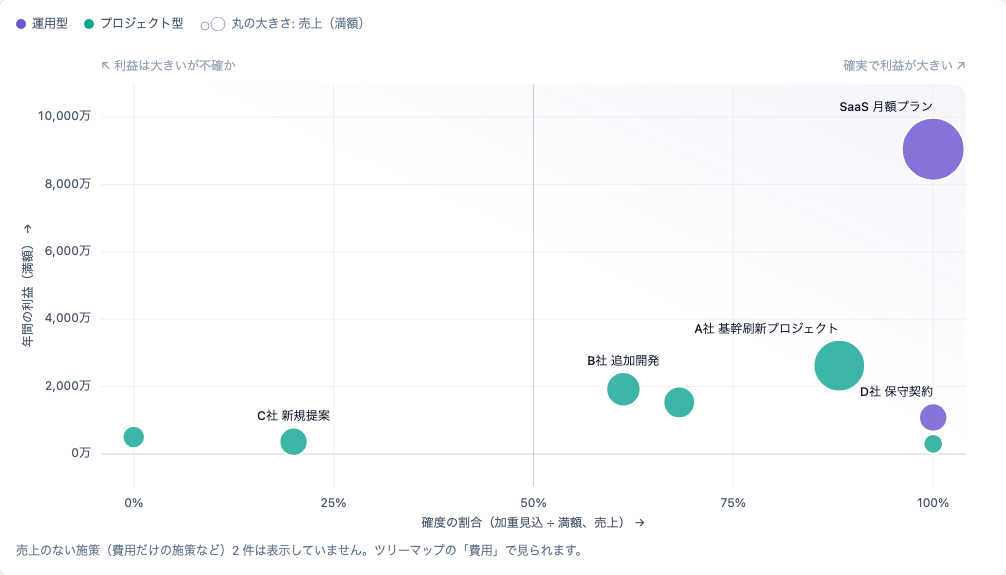
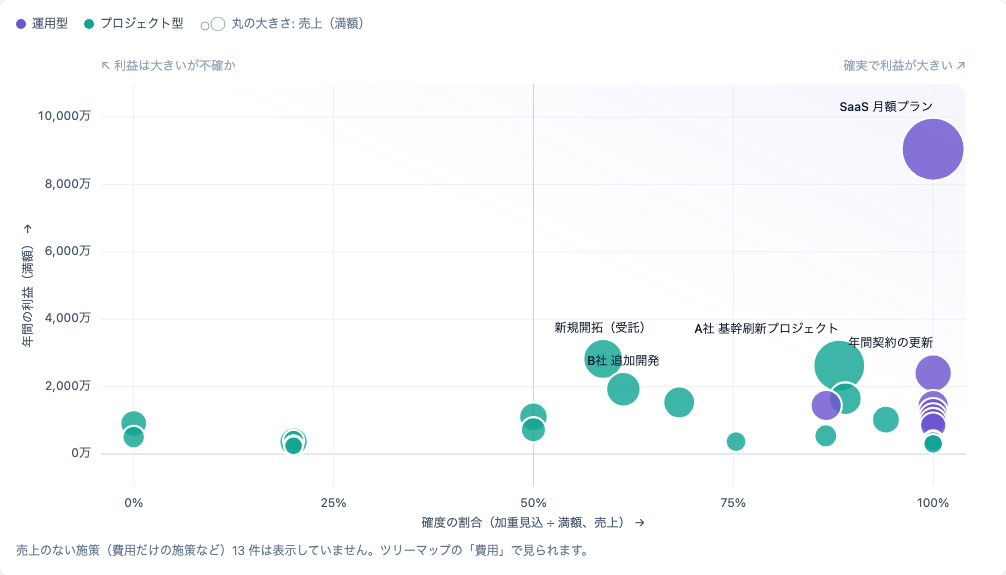
feat: デモのデータを施策 40 件にし、外部コード・割当ルール・枠の施策の例を入れる
- 4つのユニット（SaaS・受託開発・コンサルティング・管理部門）に施策 40 件
- 実績を施策コード・外部コード（案件番号）・割当ルール（会計科目 × 部門）で割り当て、未割当を 2 件残す
- 枠の施策「新規開拓（受託）」: 内訳に α社・β社・γ社・未確定分、受注した案件番号を外部コードに登録
- マネージャーの手引きに枠の施策の使い方を追加し、docs/demo.md と手引きの画像を更新する

diff --git a/web/screenshots/demo-data.ts b/web/screenshots/demo-data.ts
@@ -3,6 +3,8 @@ import { api } from '../e2e/helpers'
 
 // 研修・試用（make demo、docs/demo.md）と手引きの画像（make manual-screenshots）で使うデモのデータ。
 // 2026年度の想定で、10月見込（今回の見込）を現場が更新している途中の状態を作る。日付は固定（締切 2026-10-16）。
+// 4つのユニットに施策 40 件。実績は施策コード・外部コード（案件番号）・割当ルール（会計科目 × 部門）で割り当て、未割当も少し残す。
+// 「新規開拓（受託）」は枠の施策（docs/plan.md「2.5」）の例で、内訳に α社・β社・γ社・未確定分を持ち、受注した案件の番号を外部コードに登録している。
 // FP&A でログインした page を受け取り、API でデータを入れる。施策が1件でもある環境には入れない（本番などに誤って入れないため）。
 
 /** デモのアカウント（ローカルの研修用の値。本番では使わない） */
@@ -15,6 +17,12 @@ export const demoAccounts = [
 ] as const
 
 const months = ['2026-04', '2026-05', '2026-06', '2026-07', '2026-08', '2026-09', '2026-10', '2026-11', '2026-12', '2027-01', '2027-02', '2027-03']
+
+/** 月の末日（YYYY-MM-DD） */
+function lastDay(ym: string): string {
+  const [y, m] = ym.split('-').map(Number)
+  return `${ym}-${String(new Date(y, m, 0).getDate()).padStart(2, '0')}`
+}
 
 /** 画像の撮影で使う ID */
 export type DemoData = { activityId: number; scenarioId: number }
@@ -39,15 +47,26 @@ export async function seedDemo(page: Page): Promise<DemoData> {
   const tanaka = await post('/users', { name: '田中 一郎', email: 'tanaka@example.com', role: 'member', password: memberPassword })
   const saas = await post('/units', { name: 'SaaS ユニット', segment_id: seg.id, organization_id: org.id, owner_user_id: manager.id })
   const dev = await post('/units', { name: '受託開発ユニット', segment_id: seg2.id, organization_id: org.id, owner_user_id: manager.id })
+  const glOf = new Map<string, number>()
+  const subjectCode = new Map<number, string>()
   const subject = async (code: string, name: string, category: string) => {
     const s = await post('/subjects', { code, name, category })
-    await post('/gl-accounts', { code, name, subject_id: s.id })
+    const gl = await post('/gl-accounts', { code, name, subject_id: s.id })
+    glOf.set(code, gl.id)
+    subjectCode.set(s.id, code)
     return s.id
   }
   const subscription = await subject('4110', 'サブスクリプション売上', 'revenue')
   const contract = await subject('4120', '受託売上', 'revenue')
   const outsourcing = await subject('5110', '外注費', 'expense')
   const ads = await subject('5210', '広告宣伝費', 'expense')
+  const consulting = await subject('4130', 'コンサルティング売上', 'revenue')
+  const rent = await subject('5310', '地代家賃', 'expense')
+  const seg3 = await post('/segments', { name: 'コンサルティング事業' })
+  const seg4 = await post('/segments', { name: '全社共通' })
+  const org2 = await post('/organizations', { name: '管理本部' })
+  const consult = await post('/units', { name: 'コンサルティングユニット', segment_id: seg3.id, organization_id: org.id, owner_user_id: manager.id })
+  const corp = await post('/units', { name: '管理部門', unit_type: 'corporate', segment_id: seg4.id, organization_id: org2.id, owner_user_id: manager.id })
 
   // 施策
   const activity = (code: string, name: string, unit: number, owner: number, type: string, level: string, start = '2026-04-01', end = '2027-03-31') =>
@@ -73,6 +92,64 @@ export async function seedDemo(page: Page): Promise<DemoData> {
   const addon = await post(`/activities/${addB.id}/lines`, { subject_id: contract, name: '追加要件', outlook: 'addon', confidence_level: 'D', reason: '追加要件の見込' })
   await post(`/activities/${bigA.id}/milestones`, { name: '要件定義の完了', due_date: '2026-09-30' })
   await post(`/activities/${bigA.id}/milestones`, { name: '本番リリース', due_date: '2027-02-28' })
+
+  // 外部コード（会計・基幹システムの案件番号）。実績の明細の箱の ID がこの番号なら、その施策に割り当たる
+  const externalCode = (aid: number, code: string, note: string) => post(`/activities/${aid}/external-codes`, { code, note, reason: '案件番号の登録' })
+  await externalCode(bigA.id, 'PJ-2026-0101', 'A社 基幹刷新（受注番号）')
+  await externalCode(dMaint.id, 'PJ-2025-0077', 'D社 保守（継続契約）')
+
+  // 追加の施策（合わせて 40 件）。amount は計画値の月額、from・to は計画のある月（0 = 4月 … 11 = 3月）
+  type Extra = { code: string; name: string; unit: number; owner: number; type: string; level: string; subject: number; amount: number; from?: number; to?: number; ext?: string; status?: string }
+  const extras: Extra[] = [
+    { code: 'SAAS-005', name: 'チームプラン', unit: saas.id, owner: suzuki.id, type: 'recurring', level: 'A', subject: subscription, amount: 1_200_000 },
+    { code: 'SAAS-006', name: '年間契約の更新', unit: saas.id, owner: suzuki.id, type: 'recurring', level: 'A', subject: subscription, amount: 2_000_000 },
+    { code: 'SAAS-007', name: 'API 連携オプション', unit: saas.id, owner: tanaka.id, type: 'project', level: 'B', subject: subscription, amount: 600_000, from: 3 },
+    { code: 'SAAS-008', name: '海外展開（台湾）', unit: saas.id, owner: tanaka.id, type: 'project', level: 'D', subject: subscription, amount: 900_000, from: 6 },
+    { code: 'SAAS-009', name: 'カスタマーサクセス強化', unit: saas.id, owner: suzuki.id, type: 'project', level: 'B', subject: outsourcing, amount: 400_000 },
+    { code: 'SAAS-010', name: 'ウェビナー集客', unit: saas.id, owner: tanaka.id, type: 'project', level: 'C', subject: ads, amount: 300_000 },
+    { code: 'SAAS-011', name: 'インフラ費（クラウド）', unit: saas.id, owner: manager.id, type: 'cost_pool', level: 'A', subject: outsourcing, amount: 1_100_000 },
+    { code: 'SAAS-012', name: '解約防止キャンペーン', unit: saas.id, owner: tanaka.id, type: 'project', level: 'C', subject: ads, amount: 200_000, from: 6 },
+    { code: 'DEV-007', name: 'F社 保守契約', unit: dev.id, owner: suzuki.id, type: 'recurring', level: 'A', subject: contract, amount: 700_000, ext: 'PJ-2025-0088' },
+    { code: 'DEV-008', name: 'G社 データ移行', unit: dev.id, owner: tanaka.id, type: 'project', level: 'B', subject: contract, amount: 1_800_000, from: 2, to: 7, ext: 'PJ-2026-0112' },
+    { code: 'DEV-009', name: 'H社 アプリ開発', unit: dev.id, owner: suzuki.id, type: 'project', level: 'C', subject: contract, amount: 2_200_000, from: 7 },
+    { code: 'DEV-010', name: 'I社 運用代行', unit: dev.id, owner: tanaka.id, type: 'recurring', level: 'A', subject: contract, amount: 1_000_000, ext: 'PJ-2024-0045' },
+    { code: 'DEV-011', name: 'J社 RFP 対応', unit: dev.id, owner: tanaka.id, type: 'project', level: 'E', subject: contract, amount: 3_000_000, from: 9 },
+    { code: 'DEV-012', name: '社内ツール刷新', unit: dev.id, owner: manager.id, type: 'cost_pool', level: 'B', subject: outsourcing, amount: 350_000 },
+    { code: 'DEV-013', name: 'K社 追加改修', unit: dev.id, owner: suzuki.id, type: 'project', level: 'A', subject: contract, amount: 1_300_000, from: 3, to: 5, ext: 'PJ-2026-0120', status: 'completed' },
+    { code: 'DEV-014', name: 'L社 PoC', unit: dev.id, owner: tanaka.id, type: 'project', level: 'D', subject: contract, amount: 800_000, from: 8, to: 10 },
+    { code: 'CON-001', name: 'M社 業務改善コンサル', unit: consult.id, owner: suzuki.id, type: 'project', level: 'B', subject: consulting, amount: 1_500_000, from: 1, ext: 'PJ-2026-0201' },
+    { code: 'CON-002', name: 'N社 DX 診断', unit: consult.id, owner: tanaka.id, type: 'project', level: 'A', subject: consulting, amount: 1_200_000, from: 0, to: 2, ext: 'PJ-2026-0202', status: 'completed' },
+    { code: 'CON-003', name: '研修サービス', unit: consult.id, owner: suzuki.id, type: 'recurring', level: 'A', subject: consulting, amount: 800_000 },
+    { code: 'CON-004', name: 'O社 PMO 支援', unit: consult.id, owner: tanaka.id, type: 'recurring', level: 'B', subject: consulting, amount: 1_600_000, from: 3, ext: 'PJ-2026-0205' },
+    { code: 'CON-005', name: 'P社 新規提案', unit: consult.id, owner: suzuki.id, type: 'project', level: 'D', subject: consulting, amount: 1_000_000, from: 8 },
+    { code: 'CON-006', name: 'セミナー登壇', unit: consult.id, owner: tanaka.id, type: 'project', level: 'C', subject: consulting, amount: 300_000 },
+    { code: 'CON-007', name: 'Q社 戦略策定', unit: consult.id, owner: suzuki.id, type: 'project', level: 'C', subject: consulting, amount: 2_500_000, from: 6, to: 9 },
+    { code: 'CON-008', name: 'コンサル人材の採用', unit: consult.id, owner: manager.id, type: 'cost_pool', level: 'B', subject: ads, amount: 250_000 },
+    { code: 'CORP-001', name: '本社共通費', unit: corp.id, owner: manager.id, type: 'cost_pool', level: 'A', subject: rent, amount: 1_800_000 },
+    { code: 'CORP-002', name: '全社広報', unit: corp.id, owner: manager.id, type: 'cost_pool', level: 'B', subject: ads, amount: 400_000 },
+    { code: 'CORP-003', name: '情報システム', unit: corp.id, owner: manager.id, type: 'cost_pool', level: 'A', subject: outsourcing, amount: 600_000 },
+    { code: 'CORP-004', name: '採用活動', unit: corp.id, owner: manager.id, type: 'cost_pool', level: 'B', subject: ads, amount: 500_000 },
+    { code: 'CORP-005', name: '全社研修', unit: corp.id, owner: manager.id, type: 'cost_pool', level: 'C', subject: outsourcing, amount: 200_000, from: 6 },
+  ]
+  const extraIds = new Map<string, number>()
+  for (const x of extras) {
+    const from = x.from ?? 0
+    const to = x.to ?? 11
+    const created = await activity(x.code, x.name, x.unit, x.owner, x.type, x.level, `${months[from]}-01`, lastDay(months[to]))
+    extraIds.set(x.code, created.id)
+    if (x.ext) await externalCode(created.id, x.ext, `${x.name}（案件番号）`)
+  }
+  for (const x of extras.filter((e) => e.status)) await a.put(`/activities/${extraIds.get(x.code)}`, { code: x.code, name: x.name, unit_id: x.unit, owner_user_id: x.owner, activity_type: x.type, status: x.status, confidence_level: x.level, start_date: `${months[x.from ?? 0]}-01`, end_date: lastDay(months[x.to ?? 11]), reason: '完了' })
+
+  // 枠の施策: 新規開拓（受託）。内訳で相手先ごとに分け、確度も内訳ごとに持つ
+  const frame = await activity('DEV-006', '新規開拓（受託）', dev.id, tanaka.id, 'project', 'C')
+  const frameLine = (name: string, level: string) => post(`/activities/${frame.id}/lines`, { subject_id: contract, name, confidence_level: level, reason: '相手先ごとの内訳' })
+  const alpha = await frameLine('α社', 'B')
+  const beta = await frameLine('β社', 'C')
+  const gamma = await frameLine('γ社', 'D')
+  const unknown = await frameLine('未確定分', 'E')
+  await externalCode(frame.id, 'PJ-2026-0131', 'α社 受注（新規開拓の枠で受ける）')
+  await externalCode(frame.id, 'PJ-2026-0144', 'β社 受注（新規開拓の枠で受ける）')
 
   // シナリオ: 期初計画 → 9月見込 → 10月見込（今回）
   const initial = await post('/scenarios', { name: '2026年度 期初計画', fiscal_year: 2026, plan_role: 'initial' })
@@ -108,24 +185,53 @@ export async function seedDemo(page: Page): Promise<DemoData> {
     { aid: partner.id, subject: subscription, amount: i >= 7 ? 1_000_000 : 0 },
     { aid: ePoc.id, subject: contract, amount: i >= 1 && i <= 5 ? 600_000 : 0 },
     { aid: pool.id, subject: outsourcing, amount: 500_000 },
+    ...extras.filter((x) => i >= (x.from ?? 0) && i <= (x.to ?? 11)).map((x) => ({ aid: extraIds.get(x.code)!, subject: x.subject, amount: x.amount })),
+    // 新規開拓は期初では枠だけ（未確定分）。相手先は期中に内訳で分ける
+    { aid: frame.id, subject: contract, line: unknown.id, amount: i >= 3 ? 3_000_000 : 0 },
   ])
   const sep = await post('/scenarios', { name: '2026年度 9月見込', fiscal_year: 2026, base_scenario_id: initial.id, actual_through: '2026-08' })
   const oct = await post('/scenarios', { name: '2026年度 10月見込', fiscal_year: 2026, base_scenario_id: sep.id, plan_role: 'latest', actual_through: '2026-09' })
 
-  // 実績（4〜9月）
-  const rows = months.slice(0, 6).flatMap((m, i) => [
-    `${m},SAAS-001,4110,${(118 + 5 * i) * 50000}`,
-    `${m},SAAS-002,5210,${1_400_000 + 50_000 * i}`,
-    `${m},DEV-001,4120,${i < 5 ? 4_000_000 : 3_200_000}`,
-    `${m},DEV-001,5110,2000000`,
-    `${m},DEV-002,4120,1200000`,
-    `${m},DEV-004,4120,900000`,
-    `${m},POOL-001,5110,520000`,
-    ...(i >= 3 ? [`${m},SAAS-003,4110,1500000`] : []),
-    ...(i >= 1 ? [`${m},DEV-005,4120,600000`] : []),
-  ])
+  // 実績（4〜9月）。箱の ID は施策コードか外部コード（案件番号）。部門 D900 の家賃・D210 の広告は割当ルールで施策に入る
+  type Row = [month: string, box: string, account: string, amount: number, description: string, department?: string]
+  const rows: Row[] = months.slice(0, 6).flatMap((m, i): Row[] => {
+    const subscriptionTotal = (118 + 5 * i) * 50000
+    // SaaS 月額プランは、請求のバッチごとの明細にする（明細の件数が多い施策の例）
+    const batch = Math.floor(subscriptionTotal / 6)
+    const batches = Array.from({ length: 6 }, (_, b): Row => [m, 'SAAS-001', '4110', b < 5 ? batch : subscriptionTotal - batch * 5, `月額利用料 請求バッチ ${b + 1}`])
+    const extraRows = extras
+      .filter((x) => i >= (x.from ?? 0) && i <= (x.to ?? 11) && x.code !== 'CORP-001' && x.code !== 'SAAS-010')
+      .map((x, k): Row => {
+        // 計画との差を少し付ける（施策と月で決まる -6%〜+6%）
+        const factor = 1 + (((k * 7 + i * 3) % 13) - 6) / 100
+        return [m, x.ext ?? x.code, String(subjectCode.get(x.subject)), Math.round((x.amount * factor) / 10000) * 10000, `${x.name} ${Number(m.slice(5))}月分`]
+      })
+    return [
+      ...batches,
+      [m, 'SAAS-002', '5210', 1_400_000 + 50_000 * i, '新規獲得キャンペーン 広告費'],
+      [m, 'PJ-2026-0101', '4120', i < 5 ? 4_000_000 : 3_200_000, 'A社 基幹刷新 出来高'],
+      [m, 'PJ-2026-0101', '5110', 2_000_000, 'A社 基幹刷新 協力会社'],
+      [m, 'DEV-002', '4120', 1_200_000, 'B社 追加開発'],
+      [m, 'PJ-2025-0077', '4120', 900_000, 'D社 保守料'],
+      [m, 'POOL-001', '5110', 520_000, '開発基盤 クラウド利用料'],
+      ...(i >= 3 ? [[m, 'SAAS-003', '4110', 1_500_000, 'エンタープライズプラン 利用料'] as Row] : []),
+      ...(i >= 1 ? [[m, 'DEV-005', '4120', 600_000, 'E社 PoC'] as Row] : []),
+      ...extraRows,
+      // 割当ルール（会計科目 × 部門）で入る行。箱の ID はない
+      [m, '', '5310', 1_800_000, '本社 家賃', 'D900'],
+      [m, '', '5210', 280_000 + 10_000 * i, 'ウェビナー 広告出稿', 'D210'],
+      // 新規開拓: α社は 7月から、β社は 9月から受注（外部コードで枠の施策に入る）
+      ...(i >= 3 ? [[m, 'PJ-2026-0131', '4120', 1_500_000, 'α社 開発受託'] as Row] : []),
+      ...(i === 5 ? [[m, 'PJ-2026-0144', '4120', 900_000, 'β社 開発受託 初月'] as Row] : []),
+      // 未割当（箱の ID が未登録）: FP&A が未割当の一覧で施策を選ぶ練習用
+      ...(i === 5 ? [[m, 'PJ-2026-0150', '4120', 450_000, 'R社 スポット案件（番号が未登録）'] as Row, [m, '', '4130', 120_000, '講演謝礼（施策が不明）'] as Row] : []),
+    ]
+  })
+  await post('/allocation-rules', { gl_account_id: glOf.get('5310'), department_code: 'D900', activity_id: extraIds.get('CORP-001'), reason: '本社の家賃は本社共通費で受ける' })
+  await post('/allocation-rules', { gl_account_id: glOf.get('5210'), department_code: 'D210', activity_id: extraIds.get('SAAS-010'), reason: 'マーケティング部の広告はウェビナー集客で受ける' })
+  const csvText = rows.map(([m, box, account, amount, description, department]) => [m, box, account, department ?? '', amount, `"${description}"`].join(',')).join('\n')
   const res = await page.request.post('/api/actuals/import', {
-    multipart: { file: { name: 'actuals.csv', mimeType: 'text/csv', buffer: Buffer.from(`target_month,box_code,account_code,amount\n${rows.join('\n')}\n`) }, reason: '2026-09 実績取込' },
+    multipart: { file: { name: 'actuals.csv', mimeType: 'text/csv', buffer: Buffer.from(`target_month,box_code,account_code,department_code,amount,description\n${csvText}\n`) }, reason: '2026-09 実績取込' },
   })
   if (!res.ok()) throw new Error(`実績の取込に失敗しました: ${res.status()} ${await res.text()}`)
   await a.post(`/scenarios/${oct.id}/activate`, {})
@@ -144,6 +250,33 @@ export async function seedDemo(page: Page): Promise<DemoData> {
   )
   await a.put(`/scenarios/${oct.id}/activities/${plan.id}/note`, { explanation: '9月の新規契約が想定より多く、契約社数を上方修正した。単価は据え置き。', causes: ['volume'] })
   await a.post(`/scenarios/${oct.id}/activities/${plan.id}/complete`, {})
+
+  // 追加の施策の10月見込: 新規開拓は相手先ごとの内訳に分ける。いくつかの施策は見込を変えて、説明して完了にしている
+  const id = (code: string) => extraIds.get(code)!
+  await fill(oct.id, (_m, i) =>
+    i >= 6
+      ? [
+          { aid: frame.id, subject: contract, line: alpha.id, amount: 1_500_000 },
+          { aid: frame.id, subject: contract, line: beta.id, amount: 1_000_000 },
+          { aid: frame.id, subject: contract, line: gamma.id, amount: i >= 8 ? 1_200_000 : 0 },
+          { aid: frame.id, subject: contract, line: unknown.id, amount: 500_000 },
+          { aid: id('SAAS-008'), subject: subscription, amount: i >= 9 ? 900_000 : 0 },
+          { aid: id('CON-007'), subject: consulting, amount: i <= 9 ? 1_800_000 : 0 },
+          { aid: id('DEV-008'), subject: contract, amount: i <= 7 ? 1_500_000 : 0 },
+        ]
+      : [],
+  )
+  const done = async (aid: number, explanation: string, causes: string[]) => {
+    await a.put(`/scenarios/${oct.id}/activities/${aid}/note`, { explanation, causes })
+    await a.post(`/scenarios/${oct.id}/activities/${aid}/complete`, {})
+  }
+  await done(frame.id, 'α社（7月受注）・β社（9月受注）を内訳に分けた。γ社は 12月開始で提案中。未確定分は 1社分に減らした。', ['new'])
+  await done(id('SAAS-005'), '計画どおり。', [])
+  await done(id('DEV-007'), '保守料は契約どおり。変更なし。', [])
+  await done(id('DEV-010'), '計画どおり。', [])
+  await done(id('CON-003'), '受講者数は計画どおり。', [])
+  await done(id('CON-007'), '先方の予算縮小で、範囲を絞って 1月までに短縮した。', ['volume'])
+  await a.put(`/scenarios/${oct.id}/activities/${id('SAAS-008')}/note`, { explanation: '現地法人の設立が遅れ、開始を 1月に後ろ倒し（記入中）', causes: ['timing'] })
   // 説明へのコメント（docs/plan.md「2.24」）: FP&A が A社の後ろ倒しについて聞いている
   await a.post(`/scenarios/${oct.id}/activities/${bigA.id}/comments`, { body: '10〜12月の売上が後ろ倒しになっています。理由と、年度内に戻る見込みを説明に書いてください。' })
 

diff --git a/docs/demo.md b/docs/demo.md
@@ -41,8 +41,14 @@ FORCE=1 make dev-demo  # 確認しない
 ## デモのデータ
 
 - 2026年度。期初計画 → 9月見込 → 10月見込（今回の見込。締切 2026-10-16）。2026年4〜9月の実績を取り込み済み。
-- 2つのユニット（SaaS・受託開発）に 10 件の施策（運用型・プロジェクト型・コストプール型、確度 A〜E、ダウンサイドの内訳、期日を過ぎたマイルストーンを含む）。
-- 10月見込は更新の途中（「SaaS 月額プラン」は完了、ほかは未着手・入力中）。担当者で入って「説明して完了」まで練習できる。
+- 4つのユニット（SaaS・受託開発・コンサルティング・管理部門）に 40 件の施策（運用型・プロジェクト型・コストプール型、確度 A〜E、ダウンサイドの内訳、期日を過ぎたマイルストーン、完了した施策を含む）。
+- 実績の割当のいろいろな形:
+  - 施策コード（例: SaaS 月額プラン。請求のバッチごとに明細が 6 行ある）
+  - 外部コード（案件番号。例: A社 基幹刷新は `PJ-2026-0101`）
+  - 割当ルール（会計科目 × 部門。本社の家賃 `5310 × D900` → 本社共通費、広告 `5210 × D210` → ウェビナー集客）
+  - 未割当 2 件（番号が未登録の R社 スポット案件 `PJ-2026-0150` と、施策の分からない講演謝礼）。FP&A は「実績の割当」で解消の練習ができる
+- 枠の施策の例: 「新規開拓（受託）」（DEV-006）は、内訳に α社・β社・γ社・未確定分を持ち、受注した α社・β社の案件番号を外部コードに登録している（docs/plan.md「2.5」）。
+- 10月見込は更新の途中（7 件が完了、ほかは未着手・入力中）。担当者で入って「説明して完了」まで練習できる。A社 基幹刷新には FP&A のコメントが付いている。
 - 中身は `web/screenshots/demo-data.ts`。手引きの画像（`make manual-screenshots`）も同じデータで撮る。日付は固定なので、年度が変わったら更新する。
 
 ## 研修の進め方の例

diff --git a/web/src/manual/manager.md b/web/src/manual/manager.md
@@ -49,6 +49,17 @@
 - 終わった施策は、削除せずにステータスを「完了」「中止」にします（金額のある施策は削除できません）。
 - **重点施策**（施策の画面の右上）は、会議で必ず見る施策の目印です。**ウォッチ**（☆）は、自分が気にかけている施策の目印です。施策の一覧で絞り込めます。
 
+### 枠の施策（「新規開拓」など）を相手先ごとに分ける {#frame}
+
+計画の時点では「新規開拓」のように相手が決まっていない施策を作り、期中に相手先が見えてきたら、**施策は分けずに内訳で分けます**。目標は元の施策に入っているので、施策を分けると目標と比べにくくなるためです。
+
+1. 計画の時点: 「新規開拓」を1つの施策で作り、「未確定分」などの内訳に目標の金額を入れる
+2. 相手先が見えてきたら: 内訳に「α社」「β社」…を足し、内訳ごとに確度の段階を付ける。そのぶん「未確定分」を減らす（加重見込・リスク画面に反映されます）
+3. 受注して案件番号が出たら: 施策の「設定」の**外部コード**に、その番号を登録する。会計の明細がこの施策に入ります（番号はいくつでも登録できます）
+
+- 実績は施策 × 科目で集計するので、P/L では相手先ごとに分かれません。相手先ごとの実績は、概要の「実績の明細」の箱の ID（案件番号）と摘要で確かめます。
+- デモのデータの「新規開拓（受託）」（DEV-006）がこの例です。
+
 ## 予実比較・リスクの読み方 {#reports}
 
 ### 予実比較 {#comparison}
